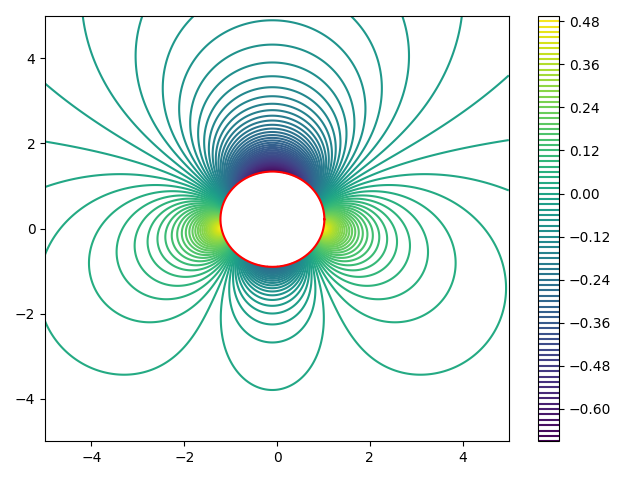
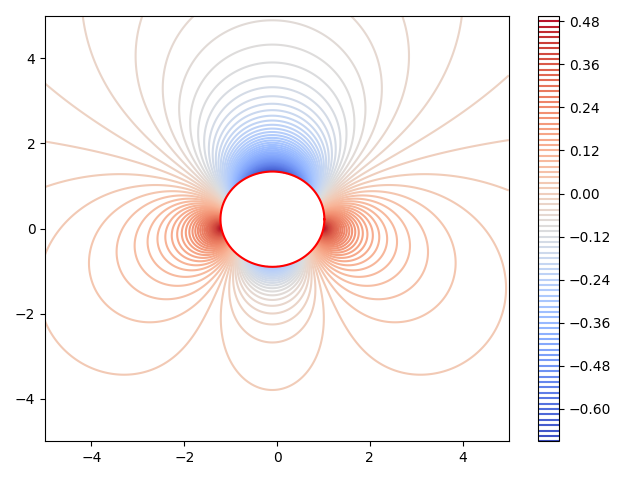
beter begrijpbare kleurtjes

diff --git a/Project 2/f.py b/Project 2/f.py
@@ -1,7 +1,5 @@
-from matplotlib.backend_bases import LocationEvent
 import numpy as np
 import matplotlib.pyplot as plt
-import scipy.interpolate as interp
 
 circleRadius = 1.12
 circleOrigin = -0.1 + 0.22j
@@ -49,7 +47,7 @@ for gamma in [-2.72, 5]:
     wingpress = rho/2*(u**2-np.absolute(diffxt))
     plt.figure()
     plt.plot(wing.real, wing.imag, color="red")
-    plt.contour(transformedZ.real[:,:-1], transformedZ.imag[:,:-1], wingpress, levels=90)
+    plt.contour(transformedZ.real[:,:-1], transformedZ.imag[:,:-1], wingpress, levels=90, cmap = "coolwarm")
     plt.xlim(-5, 5)
     plt.ylim(-5, 5)
     # plt.axis('equal')
@@ -61,7 +59,7 @@ for gamma in [-2.72, 5]:
     cylinderpress = rho/2*(u**2-np.absolute(diffx))
     plt.figure()
     plt.plot(circle.real, circle.imag, color="red")
-    plt.contour(Zs.real[:,:-1], Zs.imag[:,:-1], cylinderpress, levels=90)
+    plt.contour(Zs.real[:,:-1], Zs.imag[:,:-1], cylinderpress, levels=90, cmap = "coolwarm")
     plt.xlim(-5, 5)
     plt.ylim(-5, 5)
     # plt.axis('equal')
